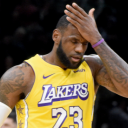
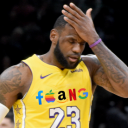
removing console logs and cleaning up documentation
New icons added as well

diff --git a/src/players/playermanager.ts b/src/players/playermanager.ts
@@ -8,7 +8,7 @@ import * as path from 'path'; // convenience
 let extensionStorageFolder: string = '';
 let playerPath: string;
 export class playerManager { // we need to write export otherwise this class is not exportable...
-    private static instance: playerManager; // private basically means not global basicallyt ther same as _instance = None in python :AlbumManager is just type hinting 
+    private static instance: playerManager; // private basically means not global basicallyt ther same as _instance = None in python :playerMananager is just type hinting 
 
     private _onPlayerChange = new vscode.EventEmitter<void>();
     private _players: Player[] = [];
@@ -22,37 +22,37 @@ export class playerManager { // we need to write export otherwise this class is 
                 fs.mkdirSync(extensionStorageFolder, { recursive: true });  //create the path if it doesnt already exist, saves us from crashes, rmbr we just need the path to exist here, before we were doing string checks 
             }
 
-            this.loadPlayerFile(); //  Try loading albums from file
+            this.loadPlayerFile(); //  Try loading players from file
         }
     }
     public static getInstance(context?: vscode.ExtensionContext): playerManager {
         if (!playerManager.instance) {
             playerManager.instance = new playerManager(context);
             if (context) {
-                playerManager.instance.loadPlayerFile(); // Load albums when context is available
+                playerManager.instance.loadPlayerFile(); // Load players when context is available
             }
         }
         return playerManager.instance;
     }
-    // Add a new album
+    // Add a new player
     addPlayer(player: Player): Player {
         const newPlayer: Player = {
-            ...player, // take existing album data 
+            ...player, // take existing player data 
             position: this.calculateNextPosition()
-        }; // generates a new album with a unique ID 
+        }; // generates a new player with a unique ID 
         this._players.push(newPlayer); // append the albunm 
         // we might ned to add smthn to save permanentlky 
         this._onPlayerChange.fire();
         this.savePlayertoFile();
         return newPlayer;
     }
-    // Remove an album
+    // Remove an playe
     removePlayer(playerName: string): void {
-        this._players = this._players.filter(player => player.name !== playerName); // goes through the list and removes the album if it isnt what we want, the arrow is basically a callback function, kinda like lambda,  
+        this._players = this._players.filter(player => player.name !== playerName); // goes through the list and removes the player if it isnt what we want, the arrow is basically a callback function, kinda like lambda,  
         const temp = this._players;
         this._players = [];
-        for (var album of temp){
-            this.addPlayer(album); // this can be done so we basically reinsert all the albums to prevent gaps after deleting from the middle 
+        for (var player of temp){
+            this.addPlayer(player); // this can be done so we basically reinsert all the players to prevent gaps after deleting from the middle 
         }
         this._onPlayerChange.fire();
         this.savePlayertoFile();
@@ -70,10 +70,10 @@ export class playerManager { // we need to write export otherwise this class is 
                 if (Array.isArray(parsed)) { // conver to js array 
                     this._players = parsed;
                     this._onPlayerChange.fire();
-                    console.log('Albums loaded from file:', parsed);
+                    console.log('Players loaded from file:', parsed);
                 }
             } catch (e) {
-                console.error('Error loading albums file:', e);
+                console.error('Error loading players file:', e);
                 this._players = [];
             }
         } else {
@@ -84,9 +84,8 @@ export class playerManager { // we need to write export otherwise this class is 
     private savePlayertoFile() {
         try {
             fs.writeFileSync(playerPath, JSON.stringify(this._players, null, 2)); // write it to file 
-            // console.log('Albums saved to file.');
         } catch (e) {
-            console.error('Error saving albums file:', e);
+            console.error('Error saving players file:', e);
         }
     }
 

diff --git a/src/extension.ts b/src/extension.ts
@@ -18,9 +18,6 @@ function restartPolling(playermanager: playerManager, playergridView: playerGrid
 	pollingInterval = startPollingPlayerStats(playermanager.getPlayers(), (player, stats) => {
 	  if (stats) {
 		playermanager.updatePlayerStats(player.personId!, stats);
-		vscode.window.showInformationMessage(
-		  `${player.name} : pts: ${stats.pts} reb: ${stats.reb} ast: ${stats.ast} TO: ${stats.tov}`
-		);
   
 		playergridView.postMessage({
 		  type: "updatePlayers",
@@ -40,11 +37,11 @@ export function activate(context: vscode.ExtensionContext) {
 
     // 👇 Start polling loop after everything is initialized
 
-    const playermanager = playerManager.getInstance(context); // singleton instance, basically creating an instnace of this class, albummamanger() basically
+    const playermanager = playerManager.getInstance(context); // singleton instance, basically creating an instnace of this class, playermanager() basically
 
     // Create the view provider
     const playergridView = new playerGridView(context);
-    context.subscriptions.push(vscode.window.registerWebviewViewProvider(playerGridView.viewType, playergridView)); // note the .viewType, remember the viewtype we have depdfiend it ion package.json. and albumgridwebview handles actual rendering and events 
+    context.subscriptions.push(vscode.window.registerWebviewViewProvider(playerGridView.viewType, playergridView)); // note the .viewType, remember the viewtype we have depdfiend it ion package.json. and playergridview handles actual rendering and events 
 	
 
 	restartPolling(playermanager, playergridView);
@@ -121,7 +118,7 @@ export function activate(context: vscode.ExtensionContext) {
 		  if (!gamePick) return;
 	  
 		  const players = await getActivePlayersFromGame(gamePick.gameId);
-		  console.log(players);
+		//   console.log(players);
 		  if (players.length === 0) {
 			vscode.window.showErrorMessage("No active players found.");
 			return;
@@ -174,7 +171,7 @@ export function activate(context: vscode.ExtensionContext) {
 			if (!gamePick) return;
 		
 			const players = await getActivePlayersFromGame(gamePick.gameId);
-			console.log(players);
+			// console.log(players);
 			if (players.length === 0) {
 			  vscode.window.showErrorMessage("No active players found.");
 			  return;

diff --git a/src/views/statusbarprovider.ts b/src/views/statusbarprovider.ts
@@ -37,14 +37,15 @@ export function registerStatusBarControls(context: vscode.ExtensionContext) {
         );
 
         if (selectedGame) {
-            // Once a game is selected, get the live score and display it in the status bar
+            selectedGameId = selectedGame.gameId; // 🔥 This line was missing
+            const gameLabel = selectedGame.label;
             const scores = await getLiveScore(selectedGame.gameId);
-            gameDisplay.text = `🏀 ${selectedGame.label} - ${scores[0]} - ${scores[1]}`; // does label here work  
-            startScorePolling(gameDisplay, selectedGame.gameId);
-        }
+            gameDisplay.text = `🏀 ${selectedGame.label} - ${scores[0]} - ${scores[1]}`;
+            startScorePolling(gameDisplay, selectedGame.gameId,gameLabel);
+          }
     }));
 
-    function startScorePolling(gameDisplay: vscode.StatusBarItem, gameId: string) {
+    function startScorePolling(gameDisplay: vscode.StatusBarItem, gameId: string,gameLabel:string) {
         // Clear any previous polling interval
         if (pollingInterval) clearInterval(pollingInterval);
 
@@ -52,7 +53,7 @@ export function registerStatusBarControls(context: vscode.ExtensionContext) {
         pollingInterval = setInterval(async () => {
             if (selectedGameId === gameId) {
                 const scores = await getLiveScore(gameId);
-                gameDisplay.text = `🏀 ${selectedGameId}: ${scores[0]} - ${scores[1]}`;
+                gameDisplay.text = `🏀 ${gameLabel}: ${scores[0]} - ${scores[1]}`;
             }
         }, 1000); // Refresh every 1000ms (1 second)
     }

diff --git a/src/views/playerwebview.ts b/src/views/playerwebview.ts
@@ -6,10 +6,10 @@ export class playerGridView implements vscode.WebviewViewProvider {
 
   public static readonly viewType = 'NBAGrid'; // class level constnat, basicaly sayting view_type musicshelfgrid 
   private view?: vscode.WebviewView; // instance properties that are local, type hinting, this view is optional 
-  private playerManager: playerManager; // album manager is an isntance of albumManager, type hinting here 
+  private playerManager: playerManager; // player manager is an isntance of playerManager, type hinting here 
   constructor(private context: vscode.ExtensionContext) {
     this.playerManager = playerManager.getInstance(context);
-    // Subscribe to album changes
+    // Subscribe to player changes
     this.playerManager.onDidPlayerCHange(() => {
       if (this.view) {
         this.postMessage({ 
@@ -92,6 +92,6 @@ export class playerGridView implements vscode.WebviewViewProvider {
 // now we need to set up event listeners, with webview on did receive message. what this does is processes what message we recieve, and does smthn with it 
 // however, our webview needs a epearte event listerner 
 // so when init is send from our webview to our extension , it will go into the message listener and proces t
-// now notice we have a ondidchangeALbums() at the top, thats there to lsiten to the fires from albumchange ts, so when album changes, that works  and sends an update albums message to the webview 
+
 
 // so the next course of action is to make this data SAVE between runs, and then implement remove and move, and UI is basically done! Im going to quickly add remove 

diff --git a/src/APIS/NBAapi.ts b/src/APIS/NBAapi.ts
@@ -27,8 +27,8 @@ export async function getLiveGames(): Promise<any[]> {
 export async function getActivePlayersFromGame(gameId: string): Promise<any[]> {
   try {
     const { data } = await axios.get(BOXSCORE_URL(gameId));
-    console.log(gameId);
-    console.log(data);
+    // console.log(gameId);
+    // console.log(data);
     const homePlayers = data.game?.homeTeam?.players ?? [];
     const awayPlayers = data.game?.awayTeam?.players ?? [];
 
